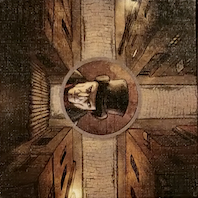
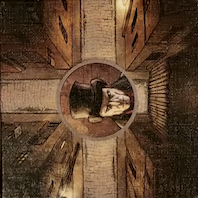
Rotation

diff --git a/src/main/java/com/isep/mrjack/District.java b/src/main/java/com/isep/mrjack/District.java
@@ -24,19 +24,7 @@ public class District {
         this.images = images;
         this.imageActive = this.images[0];
     }
-            /*
-    public District(String orientation, ArrayList<Object> gauche, ArrayList<Object> haut, ArrayList<Object> droite,
-                    ArrayList<Object> bas, ArrayList<ArrayList<Object>> cotes, PersonnagePlateau personnage, int indice) {
-        this.orientation = orientation;
-        Gauche = gauche;
-        Haut = haut;
-        Droite = droite;
-        Bas = bas;
-        this.cotes = cotes;
-        this.personnage = personnage;
-        this.indice = indice;
-    }
-*/
+
     public void turn () {
         if (orientation == "up");
             orientation = "down";
@@ -50,10 +38,20 @@ public class District {
         Droite = Haut;
         Haut = temp;
         Haut[2]='H'; Gauche[2]='G'; Droite[2]='D'; Bas[2]='B';
-        if (angle == 260){ angle = 0;}
-        else{angle += 90;}
-        imageActive = String.format("/images/district/%s.png", imageActive+"_"+angle);
-
+        switch (this.angle){
+            case 0:
+                this.angle = 270;
+                break;
+            case 270:
+                this.angle = 180;
+                break;
+            case 180:
+                this.angle = 90;
+                break;
+            case 90:
+                this.angle = 0;
+                break;
+        }
     }
 
     public void swapQuartAntihoraire(){
@@ -63,32 +61,23 @@ public class District {
         Droite = Bas;
         Bas = temp;
         Haut[2]='H'; Gauche[2]='G'; Droite[2]='D'; Bas[2]='B';
-        if (angle == 0){ angle = 260;}
-        if (angle == 260){ angle = 180;}
-        if (angle == 180){ angle = 90;}
-        if (angle == 90){ angle = 0;}
-        imageActive = String.format("/images/district/%s.png", imageActive+"_"+String.valueOf(angle));
+        switch (this.angle){
+            case 0:
+                this.angle = 90;
+                break;
+            case 90:
+                this.angle = 180;
+                break;
+            case 180:
+                this.angle = 270;
+                break;
+            case 270:
+                this.angle = 0;
+                break;
+        }
+
     }
 
-
-
-    /*
-    public com.isep.mrjack.District(String orientation, ArrayList<ArrayList<Integer>> cotés,
-                    ArrayList<Integer> Gauche, ArrayList<Integer> Haut, ArrayList<Integer> Droite,
-                    ArrayList<Integer> Bas) {
-        this.orientation = "up";
-        this.Gauche = Gauche;
-        Gauche.add(1); Gauche.add(1);
-        this.Haut = Haut;
-        Haut.add(0); Haut.add(0);
-        this.Droite = Droite;
-        Droite.add(0); Droite.add(0);
-        this.Bas = Bas;
-        Bas.add(0); Bas.add(0);
-        this.cotés = cotés;
-        cotés.add(Gauche); cotés.add(Haut); cotés.add(Droite); cotés.add(Bas);
-
-    }*/
 
     public String getOrientation() {
         return orientation;
@@ -157,6 +146,14 @@ public class District {
         if(i == 7){ Droite[1] = false; Haut[1] = false; Gauche[1] = false;}
         if(i == 8){ Gauche[1] = false; Haut[1] = false;}
         this.indice = i;
+    }
+
+    public int getIndice() {
+        return indice;
+    }
+
+    public int getAngle() {
+        return angle;
     }
 
     public void setAngle(int angle) {

diff --git a/src/main/java/com/isep/mrjack/JetonsAction.java b/src/main/java/com/isep/mrjack/JetonsAction.java
@@ -97,8 +97,8 @@ public class JetonsAction {
 
 
 
-    public void rotationDistrict () {
-        Object[] options = {"D1","D2", "D3", "D4", "D4", "D5", "D6", "D7", "D8", "D9"};
+    public void rotationDistrict (Plateau plateau) {
+        Object[] options = {"D1","D2", "D3", "D4", "D5", "D6", "D7", "D8", "D9"};
         String d1= (String) JOptionPane.showInputDialog(null,
                  " Quel District souhaitez-vous déplacer?",
                 "Joueurs", JOptionPane. QUESTION_MESSAGE, null, options, options[0]);
@@ -106,19 +106,30 @@ public class JetonsAction {
         String sens = (String) JOptionPane.showInputDialog(null,
                 "Dans quel sens (horaire ou anti-horaire) souhaitez vous le deplacer ?",
                 "Rotation", JOptionPane. QUESTION_MESSAGE, null, options2, options2[0]);
-        Object[] options3 = {"Demi Tour", "Demi Tour"};
+        Object[] options3 = {"Quart de Tour", "Demi Tour"};
         String choixSens = (String) JOptionPane.showInputDialog(null,
                 "Voulez - vous le déplacer d'un quart de tour ou d'un demi tour ?",
                 "Rotation", JOptionPane. QUESTION_MESSAGE, null, options3, options3[0]);
         District d = jeu.districts.get(d1);
         if (sens == "Horaire") {
-            if (choixSens == "Quart de Tour") { d.swapQuartHoraire(); }
+            if (choixSens == "Quart de Tour") {
+                d.swapQuartHoraire();
+                plateau.district[d.getIndice()].setIcon(new ImageIcon(getClass().getResource(String.format("/images/district/%s.png", d.imageActive+"_"+d.getAngle()))));
+            }
             if (choixSens == "Demi Tour") {
-                d.swapQuartHoraire(); d.swapQuartHoraire();}
+                d.swapQuartHoraire(); d.swapQuartHoraire();
+                plateau.district[d.getIndice()].setIcon(new ImageIcon(getClass().getResource(String.format("/images/district/%s.png", d.imageActive+"_"+d.getAngle()))));
+            }
         }
         if (sens == "Anti-Horaire") {
-            if (choixSens == "Demi Tour") { d.swapQuartAntihoraire(); }
-            if (choixSens == "Demi Tour") { d.swapQuartAntihoraire();d.swapQuartAntihoraire(); }
+            if (choixSens == "Quart de Tour") {
+                d.swapQuartAntihoraire();
+                plateau.district[d.getIndice()].setIcon(new ImageIcon(getClass().getResource(String.format("/images/district/%s.png", d.imageActive+"_"+d.getAngle()))));
+            }
+            if (choixSens == "Demi Tour") {
+                d.swapQuartAntihoraire();d.swapQuartAntihoraire();
+                plateau.district[d.getIndice()].setIcon(new ImageIcon(getClass().getResource(String.format("/images/district/%s.png", d.imageActive+"_"+d.getAngle()))));
+            }
         }
     }
     public void echangeDistrict(){
@@ -167,7 +178,7 @@ public class JetonsAction {
 
         public void faireAction(String typeAction1, Player player, Plateau plateau){
         if (typeAction1 == "Rotation"){
-            rotationDistrict();
+            rotationDistrict(plateau);
         }
         if (typeAction1 == "Sherlock"){
             bougerSherlock(player, plateau);

diff --git a/src/main/java/com/isep/mrjack/Plateau.java b/src/main/java/com/isep/mrjack/Plateau.java
@@ -18,16 +18,17 @@ public class Plateau extends JPanel {
 
     Initialisation Jeu = new Initialisation();
 
+    JButton[] district = new JButton[9];
     private void panelMilieu() {
 
         // *** CONSTRUIT L'AREA DU MILIEU
         JPanel plateauPanel = new JPanel(new GridLayout(3, 3, 0, 0));
-
-        JButton[] district = new JButton[9];                      //liste de 9 boutons qui correspondent aux 9 district
+                              //liste de 9 boutons qui correspondent aux 9 district
         for (int i = 0; i < district.length; i++) {
             district[i] = new JButton("");
             plateauPanel.add(district[i]);
-                district[i].setIcon(new ImageIcon(getClass().getResource(String.format("/images/district/%s.png", Jeu.imagesPlateau.get(i)))));
+
+            district[i].setIcon(new ImageIcon(getClass().getResource(String.format("/images/district/%s.png", Jeu.imagesPlateau.get(i)))));
             district[i].addActionListener(MrJackActionListener.createReturnDistrictAL(district[i]));
         }
 
